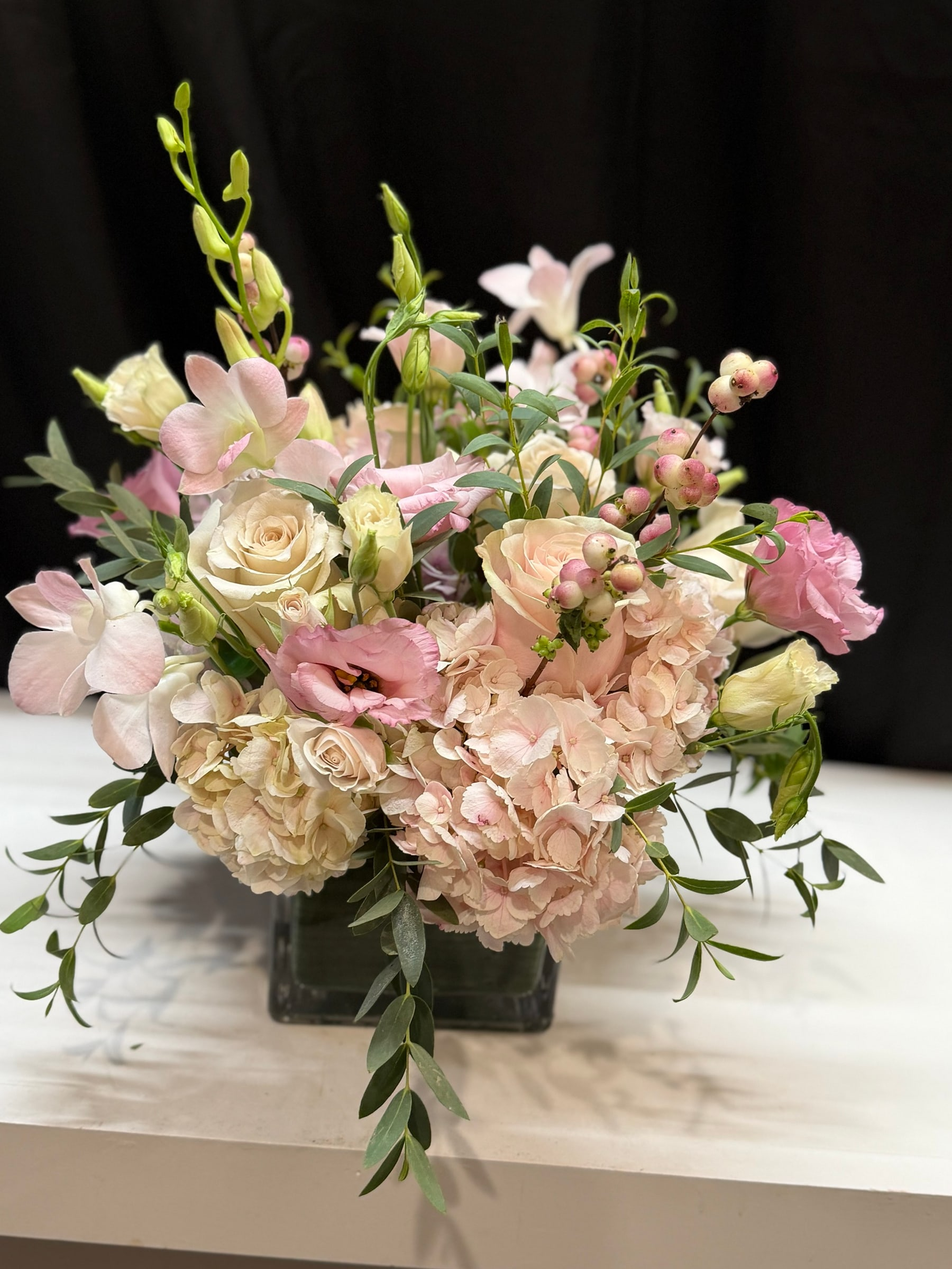
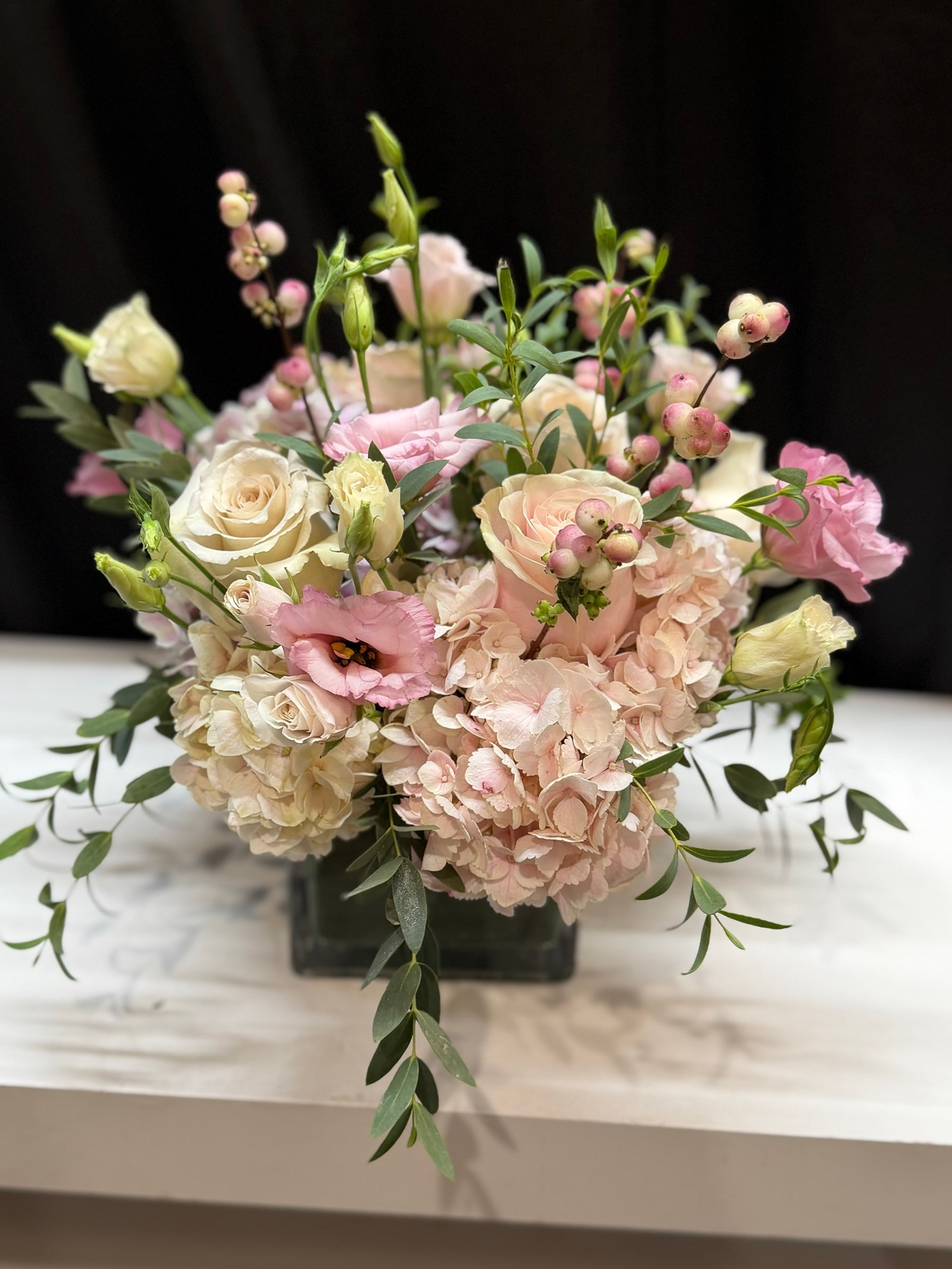
feat(catalog): Ballet Slipper comes with or without the orchid
Maky priced the same arrangement without the dendrobium sprays at $100, so
Ballet Slipper is now one product with two variants instead of two near-
identical products: Without orchid $100 and With orchid $110, both pre-tax.
The base variant leads, and the copy now says "choose it as it is, or add
the orchid" rather than "the orchid is included".

Photos, in order: the no-orchid front view leads because it matches the
base price; the orchid version (the previous lead) moves to second as
ballet-slipper-2.jpg; a top-down view of the no-orchid piece is third. The
shoot gave three frames of the no-orchid piece, two of them the same front
angle, so the one that shows the whole cube ships and the other is dropped.

Shot against the black cloth and the white table at the catalog's 3:4 frame,
1800x2400. NOT yet through the image studio: the backdrop is still the black
cloth. Swap the files in place once the studio pass is done.

New and renamed files, so the deploy must purge the Hostinger CDN.

Claude-Session: https://claude.ai/code/session_016PC2uYE4pdQUw8W15ucbHx

diff --git a/data/products.ts b/data/products.ts
@@ -3836,18 +3836,21 @@ export const PRODUCTS: Product[] = [
     title: { en: "Ballet Slipper", es: "Zapatilla de Ballet" },
     category: "arrangements",
     blurb: {
-      en: "Blush hydrangea, cream roses, pink lisianthus and pink dendrobium orchids with snowberry and eucalyptus, low in a glass cube.",
-      es: "Hortensia blush, rosas crema, lisianthus rosa y orquídeas dendrobium rosas con snowberry y eucalipto, bajo en un cubo de vidrio.",
+      en: "Blush hydrangea, cream roses and pink lisianthus with snowberry and eucalyptus, low in a glass cube — with or without pink dendrobium orchids.",
+      es: "Hortensia blush, rosas crema y lisianthus rosa con snowberry y eucalipto, bajo en un cubo de vidrio — con o sin orquídeas dendrobium rosas.",
     },
     description: {
-      en: "For the gift that should feel like a whisper — a low, soft arrangement in blush and cream: pale pink hydrangea and cream roses at the heart, blush spray roses and pink lisianthus tucked between them, and sprays of pink dendrobium orchid rising above it all, the orchid included, not an add-on. Pink snowberry adds a little sparkle, and trailing eucalyptus spills over the edge of a clear glass cube. It is the palette of a ballet slipper, of tissue paper, of the first morning with a new baby: quiet from across the room and full of detail up close, with nothing loud in it anywhere. Low enough for a nightstand or a breakfast tray, pretty enough for the center of a bridal luncheon. Send it for the new baby, the bridal shower, the anniversary, the birthday of the person who prefers soft to bright. Order before 2:00 pm and it goes out today across Long Island, built to the photo in the same palette with whatever came in freshest that morning.",
-      es: "Para el regalo que debería sentirse como un susurro — un arreglo bajo y suave en blush y crema: hortensia rosa pálido y rosas crema en el corazón, rosas spray blush y lisianthus rosa metidos entre ellas, y varas de orquídea dendrobium rosa que suben por encima de todo, con la orquídea incluida, no como extra. El snowberry rosa le da un poco de brillo, y el eucalipto colgante se derrama por el borde de un cubo de vidrio transparente. Es la paleta de una zapatilla de ballet, del papel de seda, de la primera mañana con un bebé nuevo: silencioso desde el otro lado del cuarto y lleno de detalle de cerca, sin nada estridente en ninguna parte. Bajo para una mesa de noche o una bandeja de desayuno, y bonito para el centro de un almuerzo de novia. Mándalo por el bebé nuevo, el bridal shower, el aniversario, el cumpleaños de quien prefiere lo suave a lo brillante. Pídelo antes de las 2:00 pm y sale hoy mismo por Long Island, armado como la foto en la misma paleta con lo que haya entrado más fresco esa mañana.",
+      en: "For the gift that should feel like a whisper — a low, soft arrangement in blush and cream: pale pink hydrangea and cream roses at the heart, blush spray roses and pink lisianthus tucked between them, pink snowberry for a little sparkle, and trailing eucalyptus spilling over the edge of a clear glass cube. Choose it as it is, or add sprays of pink dendrobium orchid rising above it all; both versions are in the photos, and the price follows your choice. It is the palette of a ballet slipper, of tissue paper, of the first morning with a new baby: quiet from across the room and full of detail up close, with nothing loud in it anywhere. Low enough for a nightstand or a breakfast tray, pretty enough for the center of a bridal luncheon. Send it for the new baby, the bridal shower, the anniversary, the birthday of the person who prefers soft to bright. Order before 2:00 pm and it goes out today across Long Island, built to the photo in the same palette with whatever came in freshest that morning.",
+      es: "Para el regalo que debería sentirse como un susurro — un arreglo bajo y suave en blush y crema: hortensia rosa pálido y rosas crema en el corazón, rosas spray blush y lisianthus rosa metidos entre ellas, snowberry rosa para un poco de brillo, y eucalipto colgante que se derrama por el borde de un cubo de vidrio transparente. Elígelo tal cual, o súmale varas de orquídea dendrobium rosa que suben por encima de todo; las dos versiones están en las fotos, y el precio sigue tu elección. Es la paleta de una zapatilla de ballet, del papel de seda, de la primera mañana con un bebé nuevo: silencioso desde el otro lado del cuarto y lleno de detalle de cerca, sin nada estridente en ninguna parte. Bajo para una mesa de noche o una bandeja de desayuno, y bonito para el centro de un almuerzo de novia. Mándalo por el bebé nuevo, el bridal shower, el aniversario, el cumpleaños de quien prefiere lo suave a lo brillante. Pídelo antes de las 2:00 pm y sale hoy mismo por Long Island, armado como la foto en la misma paleta con lo que haya entrado más fresco esa mañana.",
     },
     images: [
-      { src: "/products/ballet-slipper.jpg", alt: { en: "Low blush arrangement of pale pink hydrangea, cream roses, pink lisianthus and pink dendrobium orchids with snowberry and trailing eucalyptus in a glass cube", es: "Arreglo blush bajo de hortensia rosa pálido, rosas crema, lisianthus rosa y orquídeas dendrobium rosas con snowberry y eucalipto colgante en cubo de vidrio" }, aspect: "4/5" },
+      { src: "/products/ballet-slipper.jpg", alt: { en: "Low blush arrangement of pale pink hydrangea, cream roses, pink lisianthus, snowberry and trailing eucalyptus in a glass cube", es: "Arreglo blush bajo de hortensia rosa pálido, rosas crema, lisianthus rosa, snowberry y eucalipto colgante en cubo de vidrio" }, aspect: "4/5" },
+      { src: "/products/ballet-slipper-2.jpg", alt: { en: "Ballet Slipper with sprays of pink dendrobium orchid added above the roses and hydrangea", es: "Zapatilla de Ballet con varas de orquídea dendrobium rosa añadidas sobre las rosas y la hortensia" }, aspect: "4/5" },
+      { src: "/products/ballet-slipper-3.jpg", alt: { en: "Ballet Slipper seen from above, cream roses and pink lisianthus over blush hydrangea", es: "Zapatilla de Ballet vista desde arriba, rosas crema y lisianthus rosa sobre hortensia blush" }, aspect: "4/5" },
     ],
     variants: [
-      { id: "standard", label: { en: "Standard", es: "Estándar" }, priceCents: 11000 },
+      { id: "no-orchid", label: { en: "Without orchid", es: "Sin orquídea" }, priceCents: 10000, subtitle: { en: "Roses, hydrangea, lisianthus", es: "Rosas, hortensia, lisianthus" } },
+      { id: "with-orchid", label: { en: "With orchid", es: "Con orquídea" }, priceCents: 11000, subtitle: { en: "Adds sprays of pink dendrobium", es: "Suma varas de dendrobium rosa" } },
     ],
     tags: ["new", "same-day", "staff-pick"],
     occasions: ["new-baby", "anniversary", "birthday", "romance", "thank-you", "just-because"],
@@ -3856,8 +3859,8 @@ export const PRODUCTS: Product[] = [
     seo: {
       title: { en: "Ballet Slipper — Diva Flowers", es: "Zapatilla de Ballet — Diva Flowers" },
       description: {
-        en: "A low blush arrangement of pale pink hydrangea, cream roses, pink lisianthus and pink dendrobium orchids with snowberry and eucalyptus in a glass cube. Same-day delivery on Long Island.",
-        es: "Arreglo blush bajo de hortensia rosa pálido, rosas crema, lisianthus rosa y orquídeas dendrobium rosas con snowberry y eucalipto en cubo de vidrio. Entrega el mismo día en Long Island.",
+        en: "A low blush arrangement of pale pink hydrangea, cream roses and pink lisianthus with snowberry and eucalyptus in a glass cube, with or without pink dendrobium orchids. Same-day delivery on Long Island.",
+        es: "Arreglo blush bajo de hortensia rosa pálido, rosas crema y lisianthus rosa con snowberry y eucalipto en cubo de vidrio, con o sin orquídeas dendrobium rosas. Entrega el mismo día en Long Island.",
       },
     },
   },
